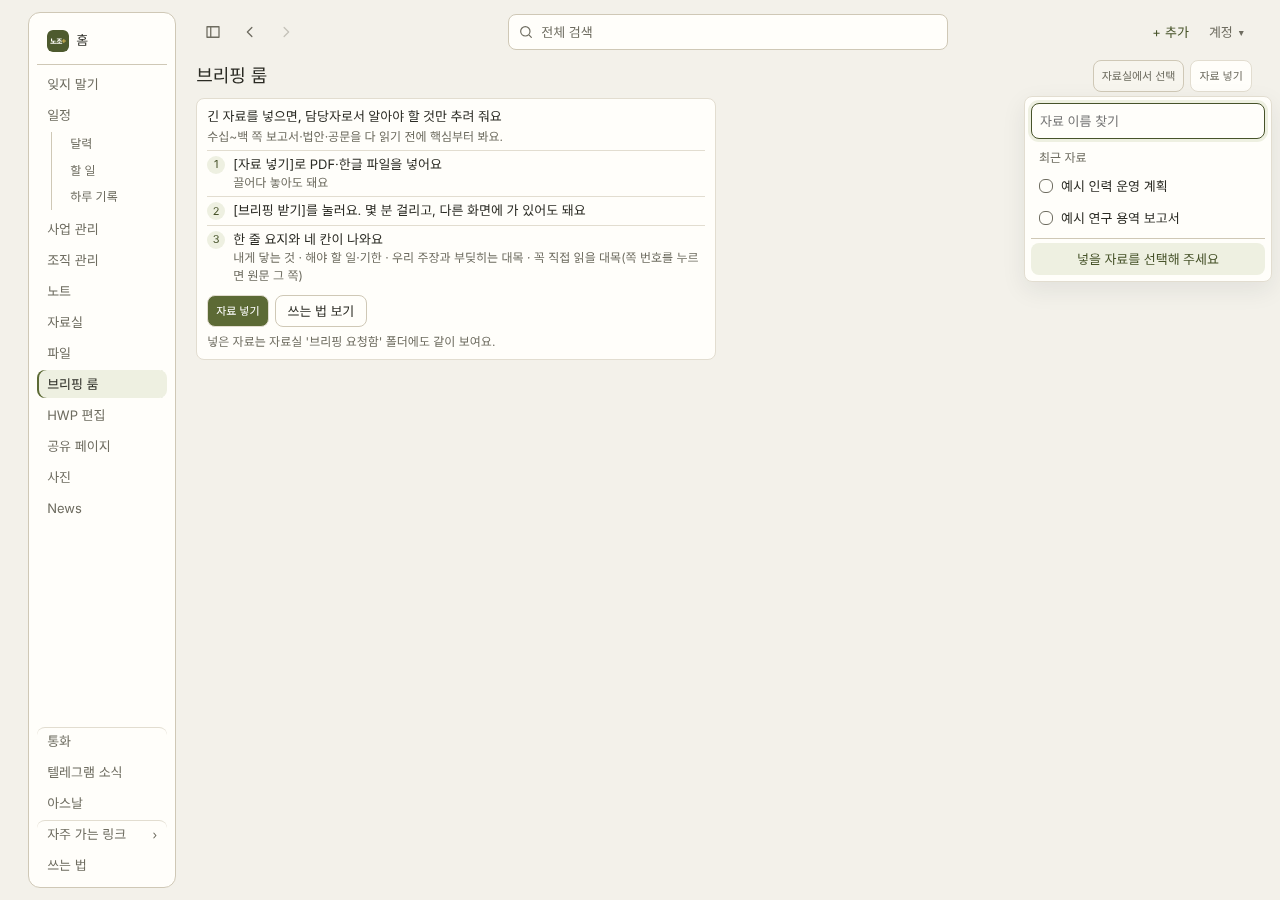
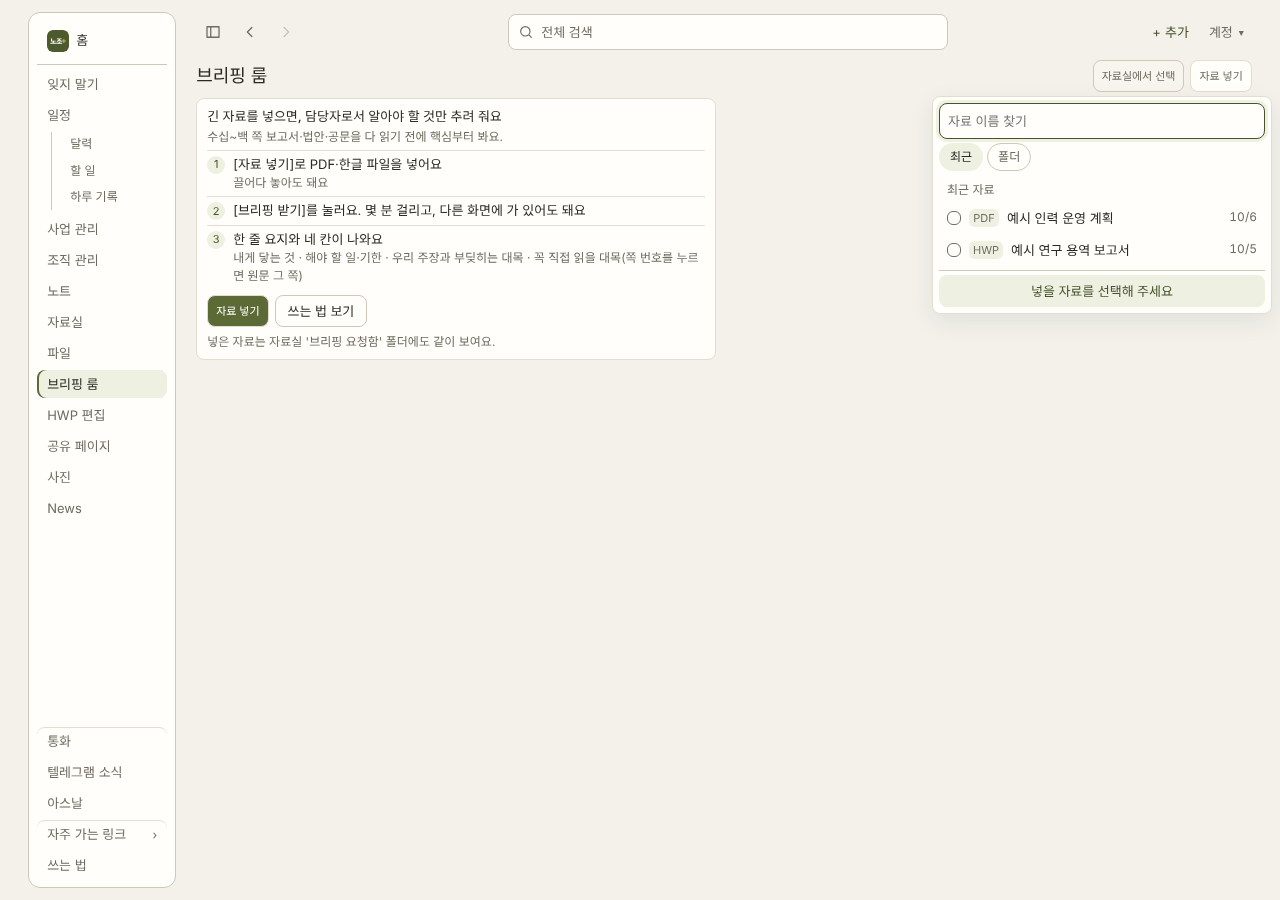
[S67-41 2/2] 브리핑 룸 자료실 고르기: [최근]·[폴더] 보기, 형식 꼬리표·날짜, 폰 아래 판 (#2809)
* [S67-41] 공용 부품이 자기 모양 파일을 스스로 붙임: part-styles.js 표 + view-loader style() 하나

- 브리핑 룸을 첫 화면으로 열면 [자료실에서 선택] 고르기 창이 꾸밈 없이 뜨던 문제의 근본 원인:
  공용 부품 꾸밈이 화면별 모양 목록(routeStyles)에만 기대고 있었음
- app/part-styles.js: 부품 모듈 → 모양 파일 표 하나, 불러오기는 view-loader.js style() 재사용
- 부품 모듈 맨 위 await partStyles(), 첫 화면 사슬 안 row-menu는 여는 함수가 기다림
- google-tasks·area-org-picker·topbar 줄 메뉴의 따로 쓰던 link 만들기를 표로 합침
- style(): 부르는 중인 파일은 끝날 때까지 같은 약속, ?v=와 상관없이 같은 파일로 봄
- 화면 목록에 첫 프로그램 사슬의 부품 모양 파일을 더해 미리 받음(첫 화면 대기 없음)
- 정적 시험 tests/part-styles.test.mjs, E2E shared-part-first-open.spec.mjs

Claude-Session: https://claude.ai/code/session_018yqVMyjekriADy14DkJaFp

* [S67-41] 브리핑 룸 자료실 고르기: [최근]·[폴더] 보기, 형식 꼬리표·날짜, 사진 이름, 폰 아래 판

- 공용 고르기 창(library-move-picker.js)에 보기 단추(views)·폴더 줄(nav)·꼬리표(kind)·날짜(meta)·창 폭(width)·refresh 추가(기존 인자 그대로)
- brief-room-model: pickKind·pickDate·pickName, libraryPickRows view 'folder'(자료실 나무 순서)
- brief-room: [폴더]를 누를 때만 폴더·폴더 자료 읽기(owner RLS), 폰은 아래 판·PC는 단추 아래(340px)
- 시험: 모델 단위 3개, E2E brief-room-pick-views(412·1280)

Claude-Session: https://claude.ai/code/session_018yqVMyjekriADy14DkJaFp

* [S67-41] CI 고침: 빌드 순환 참조·시험 틀 주소·모양 순서

- part-styles.js가 view-loader.js를 import하지 않음(빌드 해시 계산 순환) — 앱 껍데기에서는 설치 알림을 기다림(3초 한도)
- 표의 경로를 part-styles.js 기준 절대 주소로(화면 주소가 다른 폴더인 시험 틀에서 404)
- 화면 목록에 더한 부품 모양 파일은 끝(ui-standard.css 뒤)에: 전에 부품이 뒤늦게 붙이던 순서 그대로
- 첫 화면 뒤 background() 묶음은 화면 목록 검사에서 뺌

Claude-Session: https://claude.ai/code/session_018yqVMyjekriADy14DkJaFp
[…]

Changed region(s): [[0.7188, 0.0933, 1.0, 0.3422], [0.75, 0.1867, 0.7812, 0.2178]]

diff --git a/app/library-upload.css b/app/library-upload.css
@@ -332,7 +332,7 @@
 @media(prefers-reduced-motion:reduce){#appView #libraryView .photo-fold-tile.lu-flash{animation:none;outline-color:var(--kptu-primary)}}
 
 /* LIB-폴더로옮기기: [폴더로 옮기기 ›]로 여는 작은 폴더 목록. PC는 누른 버튼 옆, 폰은 아래 시트. */
-.lu-move-picker{position:fixed;inset:auto;margin:0;z-index:110;box-sizing:border-box;display:flex;flex-direction:column;width:248px;max-width:calc(100vw - 16px);padding:6px;border:1px solid var(--kptu-border);border-radius:var(--kptu-radius-md);background:var(--kptu-surface);color:var(--kptu-ink);box-shadow:var(--kptu-shadow-float);overflow:hidden}
+.lu-move-picker{position:fixed;inset:auto;margin:0;z-index:110;box-sizing:border-box;display:flex;flex-direction:column;width:var(--lu-move-width,248px);max-width:calc(100vw - 16px);padding:6px;border:1px solid var(--kptu-border);border-radius:var(--kptu-radius-md);background:var(--kptu-surface);color:var(--kptu-ink);box-shadow:var(--kptu-shadow-float);overflow:hidden}
 .lu-move-picker[hidden]{display:none}
 /* S52-27 UI-창스크롤: 폰 시트는 아래 바(하단바·전환 줄) 위에서 올라온다. 자판이 뜨면 하단바 높이는 0이 되고 자판 높이만큼 올라간다. */
 .lu-move-picker.lu-move-sheet{left:8px;right:8px;bottom:calc(8px + var(--kptu-mobile-tab-height,0px) + var(--kptu-switch-dock,0px) + env(safe-area-inset-bottom,0px) + var(--kptu-keyboard-inset,0px));top:auto;width:auto;max-width:none}
@@ -350,6 +350,17 @@
 .lu-move-tag{flex:none;margin-left:auto;font-size:var(--ds-text-meta,12px);color:var(--kptu-muted)}
 .lu-move-note{flex:none;margin:4px 8px 0;font-size:var(--ds-text-meta,12px);line-height:1.4;color:var(--kptu-muted)}
 .lu-move-note[hidden]{display:none}
+/* S67-41 보기 단추([최근]·[폴더], 공용 ⑤ 보기 바꾸기 ds-seg)·형식 꼬리표·날짜·폴더 줄 — 작은 글자, 톤다운. */
+.lu-move-tabs{flex:none;align-self:flex-start}
+.lu-move-tabs[hidden]{display:none}
+.lu-move-picker .lu-move-tabs button.ds-seg-btn{width:auto;flex:0 0 auto}
+.lu-move-kind{flex:none;min-width:30px;padding:0 4px;border-radius:var(--kptu-radius-sm,4px);background:var(--kptu-primary-soft);color:var(--kptu-muted);font-size:11px;line-height:18px;text-align:center}
+.lu-move-meta{flex:none;margin-left:auto;font-size:var(--ds-text-meta,12px);color:var(--kptu-muted);font-variant-numeric:tabular-nums}
+.lu-move-tag+.lu-move-meta{margin-left:6px}
+.lu-move-chev{flex:none;margin-left:auto;color:var(--kptu-muted)}
+.lu-move-meta+.lu-move-chev{margin-left:6px}
+.lu-move-back .lu-move-chev{margin-left:0}
+.lu-move-nav .lu-move-name{font-weight:var(--ds-weight-medium,500)}
 .lu-move-foot{flex:none;margin-top:4px;padding-top:4px;border-top:var(--ds-line-width,1px) solid var(--ds-line,var(--kptu-border))}
 .lu-move-foot button{padding:0 8px;color:var(--kptu-primary-ink)}
 /* BRIEF-자료실에서고르기: 여러 개 고르기 창 — 고른 줄 앞 작은 네모(✓), 아래 [넣기 n개]는 가운데 글자. */
